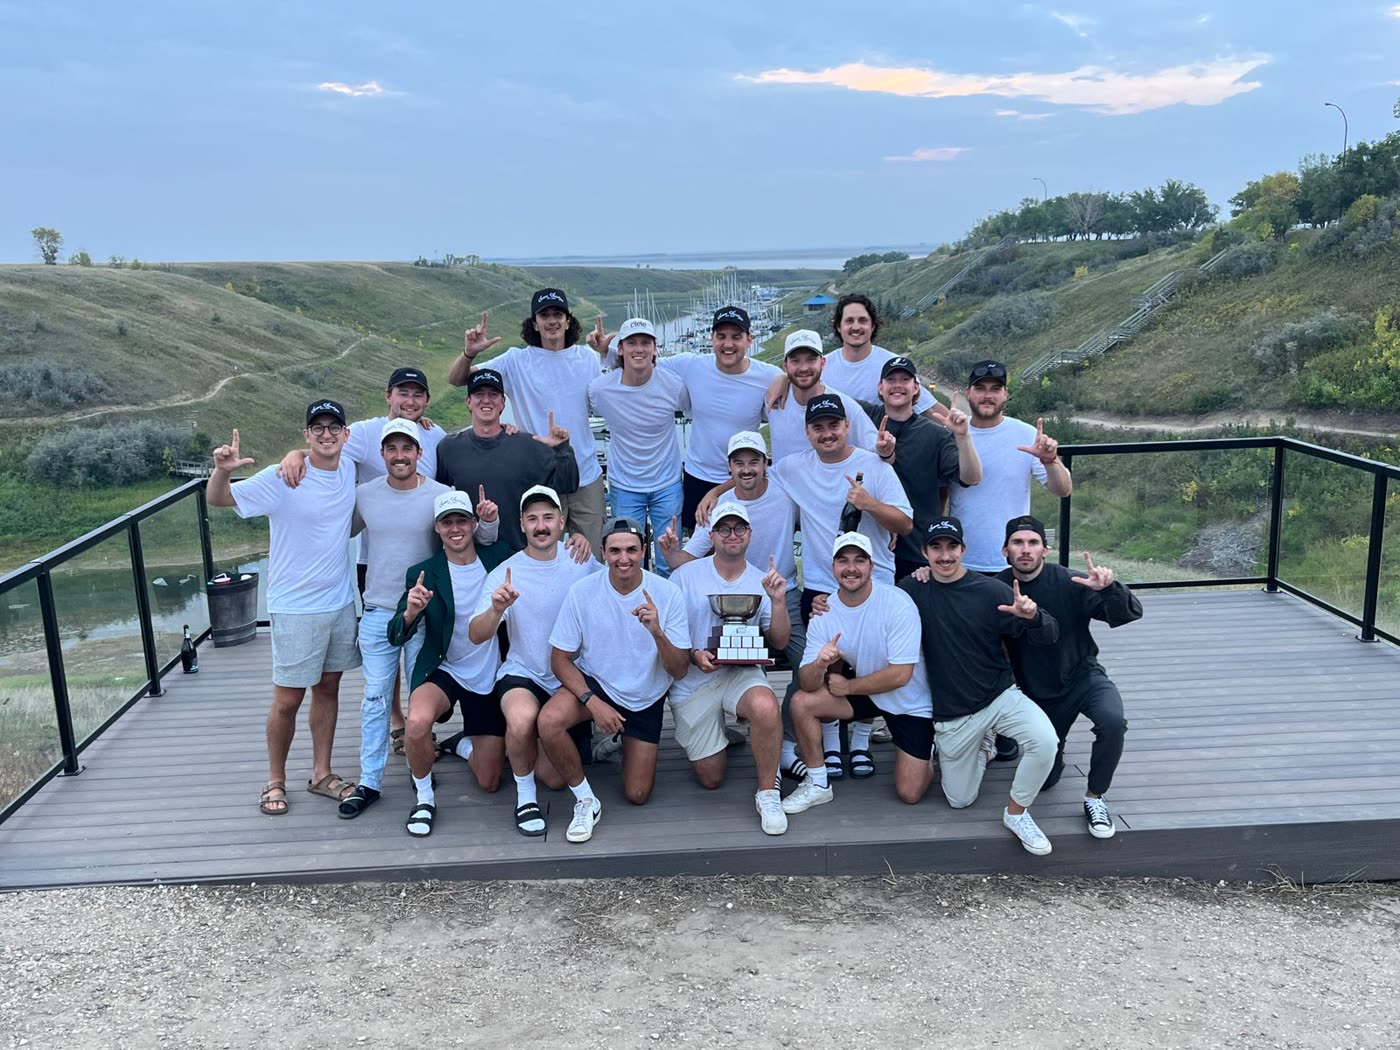
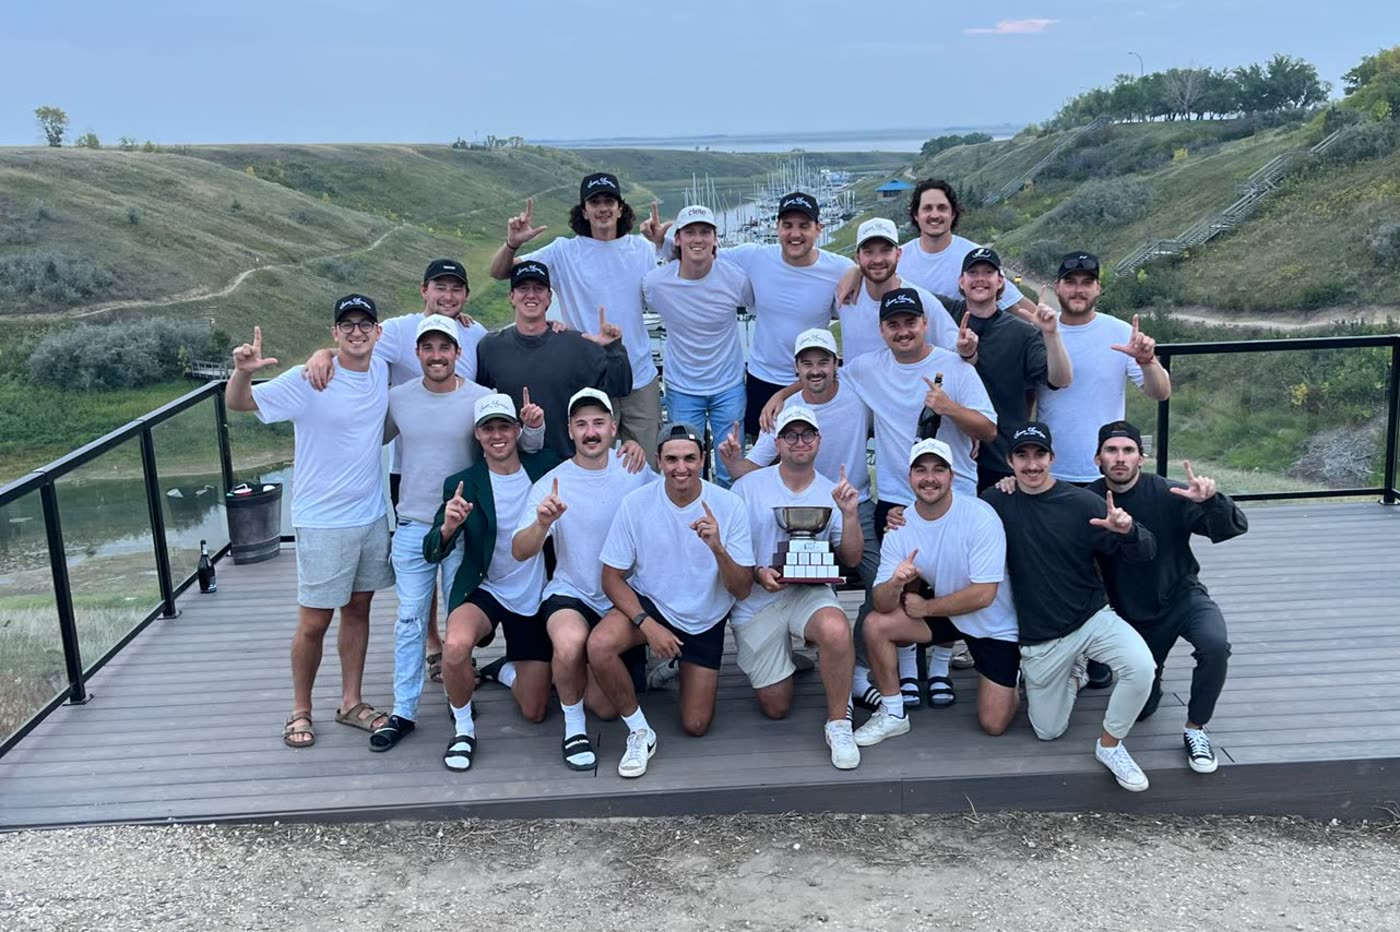
Home page: crop every photo so the groups sit at a matching scale (#85)
2024 was the most obvious, but the inconsistency was across the set: a
CSS crop window only moves, it cannot zoom, so each group filled a
different share of its frame depending on how the original was shot.

The crops are now baked into the served files. For each photo I read the
group's bounding box off a 10% grid overlay, then computed a 3:2 window
that puts the group at roughly 62% of the frame height, centred on it
with a little headroom. Two guards: the group never drops below 72% of
the frame width, so a wide frame cannot leave it looking lost, and never
exceeds 80% of the frame height, so the window cannot squeeze it. 2023
needed the first guard - its group spreads across a deck, and without it
the window clamped to the full source width and left dead hillside down
one side.

Result, group height as a share of frame: 62, 62, 60, 70, 70 percent,
against a spread of roughly 29 to 57 percent before.

Because the framing is in the files, the per-photo object-position nudge
added for 2022 is gone; all five are plain centred again.

The uncropped versions are kept in photos/full and the lightbox opens
those, so clicking a photo still shows the whole original. They are only
fetched on click. Served crops total 1.08 MB, the full set 1.54 MB.

Also removed the "The Frends" label above the gallery, and its now
unused style.

Verified in Chromium at 1000px and on an iPhone 13 viewport: label gone,
five photos in year order loading with no 4xx, every source measuring
[…]

diff --git a/index.html b/index.html
@@ -64,8 +64,6 @@
 
     /* Photo gallery */
     .gallery { padding: 2.5rem 0 3rem; border-top: 0.5px solid var(--border); }
-    .gallery-label { font-size: 11px; letter-spacing: 0.12em; text-transform: uppercase;
-                     color: var(--text-tertiary); margin-bottom: 1.25rem; }
     .gallery-grid { display: flex; flex-direction: column; gap: 1.9rem; }
     .gallery-item { margin: 0; }
     .gallery-caption { margin-top: 0.65rem; font-size: 12px; color: var(--text-tertiary); }
@@ -209,26 +207,25 @@
   </div>
 
   <section class="gallery">
-    <div class="gallery-label">The Frends</div>
     <div class="gallery-grid" id="galleryGrid">
       <figure class="gallery-item">
-        <img src="photos/2026.jpg" alt="Frends VI, 2026, Nipawin, Saskatchewan" loading="lazy" decoding="async" width="1050" height="1400">
+        <img src="photos/2026.jpg" alt="Frends VI, 2026, Nipawin, Saskatchewan" loading="lazy" decoding="async" width="1400" height="932" data-full="photos/full/2026.jpg">
         <figcaption class="gallery-caption"><span class="cap-year">2026</span> &middot; Frends VI &middot; Nipawin, SK</figcaption>
       </figure>
       <figure class="gallery-item">
-        <img src="photos/2025.jpg" alt="Frends V, 2025, Kelowna, British Columbia" loading="lazy" decoding="async" width="1400" height="1050">
+        <img src="photos/2025.jpg" alt="Frends V, 2025, Kelowna, British Columbia" loading="lazy" decoding="async" width="1400" height="934" data-full="photos/full/2025.jpg">
         <figcaption class="gallery-caption"><span class="cap-year">2025</span> &middot; Frends V &middot; Kelowna, BC</figcaption>
       </figure>
       <figure class="gallery-item">
-        <img src="photos/2024.jpg" alt="Frends IV, 2024, Candle Lake, Saskatchewan" loading="lazy" decoding="async" width="1400" height="1050">
+        <img src="photos/2024.jpg" alt="Frends IV, 2024, Candle Lake, Saskatchewan" loading="lazy" decoding="async" width="1400" height="932" data-full="photos/full/2024.jpg">
         <figcaption class="gallery-caption"><span class="cap-year">2024</span> &middot; Frends IV &middot; Candle Lake, SK</figcaption>
       </figure>
       <figure class="gallery-item">
-        <img src="photos/2023.jpg" alt="Frends III, 2023, Elbow, Saskatchewan" loading="lazy" decoding="async" width="1400" height="1050">
+        <img src="photos/2023.jpg" alt="Frends III, 2023, Elbow, Saskatchewan" loading="lazy" decoding="async" width="1400" height="932" data-full="photos/full/2023.jpg">
         <figcaption class="gallery-caption"><span class="cap-year">2023</span> &middot; Frends III &middot; Elbow, SK</figcaption>
       </figure>
       <figure class="gallery-item">
-        <img src="photos/2022.jpg" alt="Frends II, 2022, Jackfish Lake, Saskatchewan" loading="lazy" decoding="async" width="1050" height="1400" style="object-position: center 68%">
+        <img src="photos/2022.jpg" alt="Frends II, 2022, Jackfish Lake, Saskatchewan" loading="lazy" decoding="async" width="1400" height="934" data-full="photos/full/2022.jpg">
         <figcaption class="gallery-caption"><span class="cap-year">2022</span> &middot; Frends II &middot; Jackfish Lake, SK</figcaption>
       </figure>
     </div>
@@ -252,7 +249,7 @@
   }
   grid.addEventListener('click', function(e){
     var t = e.target;
-    if (t && t.tagName === 'IMG') open(t.getAttribute('src'), t.getAttribute('alt'));
+    if (t && t.tagName === 'IMG') open(t.getAttribute('data-full') || t.getAttribute('src'), t.getAttribute('alt'));
   });
   box.addEventListener('click', close);
   document.addEventListener('keydown', function(e){ if (e.key === 'Escape') close(); });
